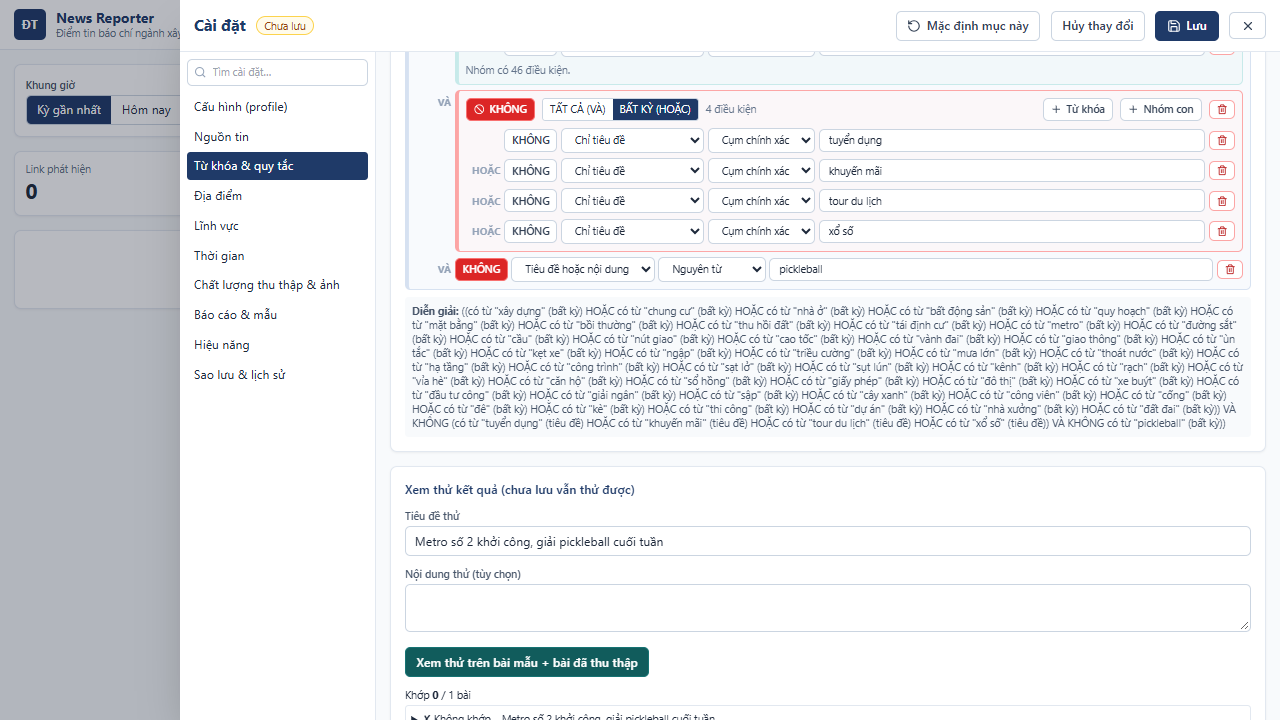
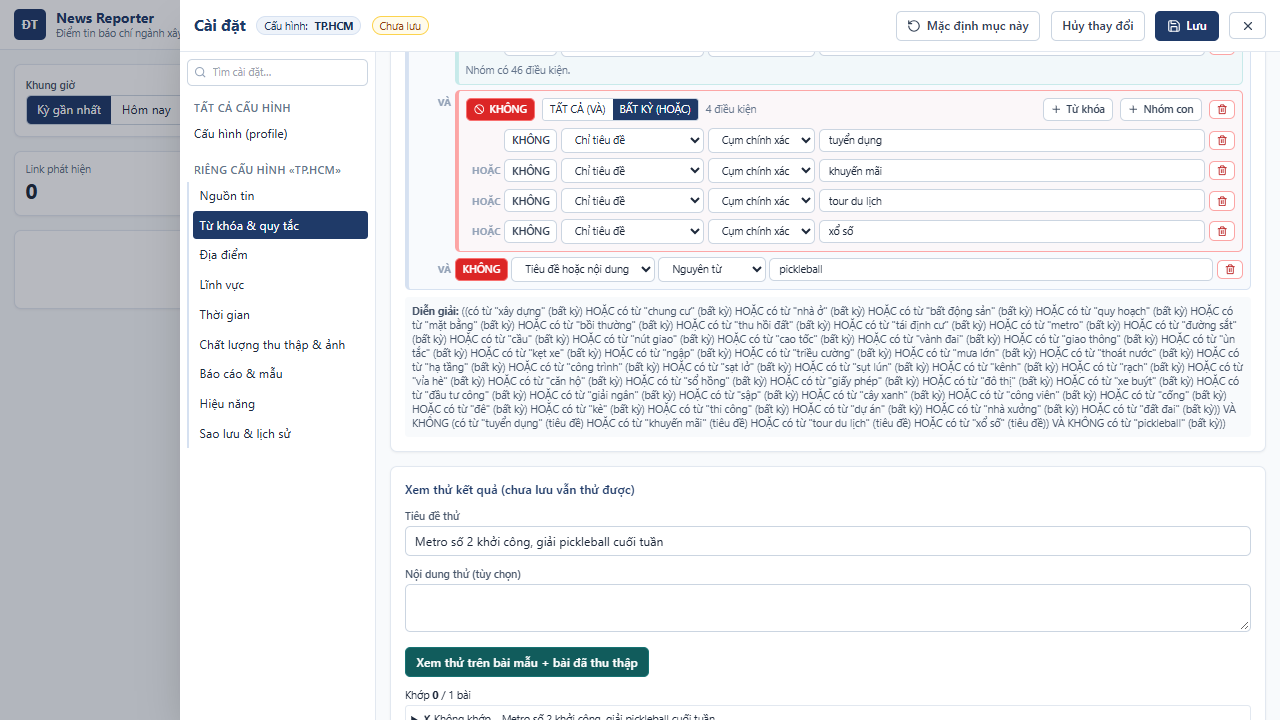
Settings show the active profile and group its sections; all report templates visible as choices (export + Settings)

Changed region(s): [[0.125, 0.1222, 0.3125, 0.6111], [0.1875, 0.0306, 0.3438, 0.0611]]

diff --git a/web/src/Settings.tsx b/web/src/Settings.tsx
@@ -33,7 +33,10 @@ export function SettingsDrawer({ open, onClose, onSaved, initialSection }: { ope
   const [filter, setFilter] = useState('');
   const [saving, setSaving] = useState(false);
 
+  /** name of the profile every section except "Cấu hình (profile)" edits */
+  const [profName, setProfName] = useState('');
   const load = async () => {
+    api.profiles().then((p) => setProfName(p.profiles.find((x) => x.id === p.activeId)?.name ?? p.activeId)).catch(() => setProfName(''));
     const [a, b] = await Promise.all([api.getSettings(), api.getSources()]);
     setSaved({ s: a, src: b });
     setS(structuredClone(a));
@@ -94,6 +97,11 @@ export function SettingsDrawer({ open, onClose, onSaved, initialSection }: { ope
       <div className="flex h-full w-full max-w-[1100px] flex-col bg-slate-50 shadow-2xl">
         <header className="flex items-center gap-3 border-b border-slate-200 bg-white px-4 py-3">
           <h2 className="text-lg font-bold text-navy-700">Cài đặt</h2>
+          {profName && (
+            <span className="chip border-navy-100 bg-navy-50 text-navy-800" data-testid="settings-profile" title="Nguồn tin, từ khóa & quy tắc, địa điểm, lĩnh vực, thời gian, chất lượng, báo cáo và hiệu năng thuộc riêng cấu hình này. Đổi cấu hình ở mục Cấu hình (profile).">
+              Cấu hình: <b className="ml-1">{profName}</b>
+            </span>
+          )}
           {(dirtyS || dirtySrc) && <span className="chip border-amber-300 bg-amber-50 text-amber-800">Chưa lưu</span>}
           <span className="flex-1" />
           <button className="btn-ghost" onClick={resetSection} disabled={nav === 'profiles' || nav === 'sources' || nav === 'backup'}>
@@ -111,7 +119,7 @@ export function SettingsDrawer({ open, onClose, onSaved, initialSection }: { ope
         </header>
         {api.mode === 'live' && api.shared && (
           <div className="border-b border-teal-200 bg-teal-50 px-4 py-2 text-xs text-teal-900" data-testid="shared-config-note">
-            <b>Cài đặt dùng chung:</b> bấm Lưu (cần đăng nhập người duyệt) là áp dụng cho <b>máy chủ thu thập</b> từ lượt kế tiếp (tự động hoặc bấm Thu thập) và cho mọi người dùng web. Mỗi lần lưu được ghi vào Lịch sử, có thể khôi phục. Riêng <b>mẫu PPTX</b> chỉ lưu trong trình duyệt này.
+            <b>Cài đặt dùng chung cho nhóm, riêng từng cấu hình{profName ? ` (đang sửa: ${profName})` : ''}:</b> bấm Lưu (cần đăng nhập người duyệt) là áp dụng cho <b>máy chủ thu thập</b> từ lượt kế tiếp (tự động hoặc bấm Thu thập) và cho mọi người dùng web. Mỗi lần lưu được ghi vào Lịch sử, có thể khôi phục. Riêng <b>mẫu PPTX</b> chỉ lưu trong trình duyệt này.
           </div>
         )}
         {validation && !validation.success && (
@@ -127,11 +135,24 @@ export function SettingsDrawer({ open, onClose, onSaved, initialSection }: { ope
               <Search className="absolute left-2 top-2 h-3.5 w-3.5 text-slate-400" />
               <input className="input pl-7 text-xs" placeholder="Tìm cài đặt…" value={filter} onChange={(e) => setFilter(e.target.value)} />
             </div>
-            {navItems.map(([k, l]) => (
-              <button key={k} onClick={() => setNav(k)} className={`mb-0.5 block w-full rounded px-2 py-1.5 text-left text-sm ${nav === k ? 'bg-navy-700 text-white' : 'hover:bg-slate-100'}`}>
-                {l}
-              </button>
-            ))}
+            {/* every section except the profile list belongs to the active profile – shown as one group under its name */}
+            {[
+              { title: 'Tất cả cấu hình', items: navItems.filter(([k]) => k === 'profiles') },
+              { title: `Riêng cấu hình «${profName || '…'}»`, items: navItems.filter(([k]) => k !== 'profiles') },
+            ].map((g) =>
+              g.items.length ? (
+                <div key={g.title} className="mb-2" data-testid={g.items[0]![0] === 'profiles' ? 'nav-all-profiles' : 'nav-this-profile'}>
+                  <div className="px-2 pb-1 pt-2 text-[11px] font-semibold uppercase tracking-wide text-slate-500">{g.title}</div>
+                  <div className={g.items[0]![0] === 'profiles' ? '' : 'border-l-2 border-navy-100 pl-1'}>
+                    {g.items.map(([k, l]) => (
+                      <button key={k} onClick={() => setNav(k)} className={`mb-0.5 block w-full rounded px-2 py-1.5 text-left text-sm ${nav === k ? 'bg-navy-700 text-white' : 'hover:bg-slate-100'}`}>
+                        {l}
+                      </button>
+                    ))}
+                  </div>
+                </div>
+              ) : null,
+            )}
           </nav>
           <main className="min-w-0 flex-1 overflow-auto p-4">
             {!s ? (
@@ -467,25 +488,27 @@ function ReportPanel({ s, up }: { s: Settings; up: Up }) {
   };
   return (
     <div>
-      <Section title="Mẫu báo cáo" help="Khi xuất vẫn chọn được mẫu khác cho từng lần.">
-        <Field label="Mẫu mặc định khi xuất">
-          <select className="input" aria-label="Mẫu mặc định khi xuất" value={s.report.templateId} onChange={(e) => up('report', { templateId: e.target.value })}>
-            {tpls.map((x) => <option key={x.id} value={x.id}>{x.name}</option>)}
-          </select>
-        </Field>
-        <p className="text-xs text-slate-600">{tpls.find((x) => x.id === s.report.templateId)?.description}</p>
-      </Section>
-      {s.report.templateFile ? (
-        <div className="mb-4 rounded border border-green-300 bg-green-50 p-3 text-xs text-green-900">
-          <b>Đã có mẫu tải lên:</b> báo cáo được dựng bằng cách nhân bản đúng các trang của mẫu (Bìa → Tồn tại → Tích cực → Trung lập → Kiến nghị), thay nội dung trong các khung sẵn có và giữ nguyên định dạng. Nếu tải mẫu khác cấu trúc, xuất báo cáo sẽ báo <b>BLOCKED</b> thay vì tạo tệp sai.
+      <Section title={`Mẫu báo cáo có sẵn (${tpls.length})`} help="Mẫu Sở Xây dựng TP.HCM (từ Skill) có sẵn trong ứng dụng – không cần tải gì. Tích mẫu mặc định; khi xuất vẫn tích được mẫu khác cho từng lần.">
+        <div className="space-y-1.5" role="radiogroup" aria-label="Mẫu mặc định khi xuất" data-testid="default-template-picker">
+          {tpls.map((x) => (
+            <label key={x.id} className={`flex cursor-pointer items-start gap-2 rounded border p-2 text-sm ${x.id === s.report.templateId ? 'border-teal-600 bg-teal-50' : 'border-slate-200 hover:bg-slate-50'}`}>
+              <input type="radio" name="default-template" className="mt-1" value={x.id} checked={x.id === s.report.templateId} onChange={() => up('report', { templateId: x.id })} aria-label={x.name} />
+              <span>
+                <span className="font-medium">{x.name}</span>
+                <span className="ml-1 text-xs text-slate-500">· {x.orientation === 'landscape' ? 'trang ngang 16:9' : 'A4 dọc'}{x.id === s.report.templateId ? ' · mặc định' : ''}</span>
+                <span className="block text-xs text-slate-600">{x.description}</span>
+              </span>
+            </label>
+          ))}
         </div>
-      ) : (
-        <div className="mb-4 rounded border border-amber-300 bg-amber-50 p-3 text-xs text-amber-900">
-          Muốn dùng <b>mẫu riêng</b> (cùng cấu trúc mẫu Sở: Bìa → Tồn tại → Tích cực → Trung lập → Kiến nghị)? Tải tệp .pptx ở bên dưới, rồi chọn "Mẫu đã tải lên" khi xuất.
+      </Section>
+      {s.report.templateFile && (
+        <div className="mb-4 rounded border border-green-300 bg-green-50 p-3 text-xs text-green-900">
+          <b>Có thêm mẫu riêng của bạn:</b> báo cáo được dựng bằng cách nhân bản đúng các trang của mẫu (Bìa → Tồn tại → Tích cực → Trung lập → Kiến nghị), thay nội dung trong các khung sẵn có và giữ nguyên định dạng. Nếu mẫu khác cấu trúc, xuất báo cáo sẽ báo <b>BLOCKED</b> thay vì tạo tệp sai.
         </div>
       )}
-      <Section title="Mẫu PowerPoint tải lên & thông tin cơ quan">
-        <p className="text-xs">Tệp mẫu đang chọn: <b>{s.report.templateFile || '(chưa có – dùng bố cục demo)'}</b></p>
+      <Section title="Mẫu riêng (không bắt buộc) & thông tin cơ quan">
+        <p className="text-xs">Chỉ cần khi muốn dùng một tệp .pptx khác (cùng cấu trúc mẫu Sở). Mẫu riêng đang có: <b>{s.report.templateFile || 'không có – vẫn xuất bình thường bằng các mẫu có sẵn ở trên'}</b></p>
         {api.mode !== 'local' && <p className="text-xs text-slate-600">Bản web: mẫu chỉ lưu trong <b>trình duyệt này</b> (không tải lên máy chủ hay GitHub); xuất báo cáo dựng ngay trong trình duyệt, ảnh báo gốc lấy qua máy chủ duyệt tin (cần đăng nhập). PDF: mở tệp .pptx bằng PowerPoint › Lưu thành PDF.</p>}
         <label className="btn-ghost w-fit cursor-pointer">
           <FileUp className="h-4 w-4" /> Tải mẫu .pptx

diff --git a/web/src/App.tsx b/web/src/App.tsx
@@ -1100,7 +1100,6 @@ function ExportPanel({ run, arts, reviews, settings, onPatch, onInspect, onMerge
   useEffect(() => {
     api.templates().then((r) => (setTpls(r.templates), setTplId((cur) => (r.templates.some((x) => x.id === cur) ? cur : r.defaultId)))).catch(() => setTpls([]));
   }, []);
-  const tpl = tpls.find((x) => x.id === tplId);
   const sel = Object.values(reviews).filter((r) => r.included && !r.groupId).sort((a, b) => a.order - b.order);
   const go = async (dryRun: boolean) => {
     setBusy(true);
@@ -1163,17 +1162,24 @@ function ExportPanel({ run, arts, reviews, settings, onPatch, onInspect, onMerge
       </div>
       <div className="card space-y-3 p-3">
         <h3 className="font-semibold text-navy-700">Xuất báo cáo</h3>
-        <label className="block">
-          <span className="label">Mẫu báo cáo</span>
-          <select className="input" aria-label="Mẫu báo cáo" value={tplId} onChange={(e) => setTplId(e.target.value)}>
-            {tpls.map((x) => (
-              <option key={x.id} value={x.id} disabled={x.available === false}>
-                {x.name} · {x.orientation === 'landscape' ? '16:9' : 'A4 dọc'}{x.available === false ? ' (thiếu tệp)' : ''}
-              </option>
-            ))}
-          </select>
-        </label>
-        {tpl && <p className="rounded bg-slate-50 p-2 text-xs text-slate-700" data-testid="template-info">{tpl.description}</p>}
+        {/* every template visible at once (tick one) – not hidden in a drop-down */}
+        <fieldset className="space-y-1.5" role="radiogroup" aria-label="Mẫu báo cáo" data-testid="template-picker">
+          <legend className="label mb-1">Mẫu báo cáo ({tpls.length})</legend>
+          {tpls.length === 0 && <p className="text-xs text-red-700">Không tải được danh sách mẫu – tải lại trang.</p>}
+          {tpls.map((x) => {
+            const on = x.id === tplId;
+            return (
+              <label key={x.id} className={`flex cursor-pointer items-start gap-2 rounded border p-2 text-sm ${on ? 'border-teal-600 bg-teal-50' : 'border-slate-200 hover:bg-slate-50'} ${x.available === false ? 'cursor-not-allowed opacity-50' : ''}`}>
+                <input type="radio" name="report-template" className="mt-1" value={x.id} checked={on} disabled={x.available === false} onChange={() => setTplId(x.id)} aria-label={x.name} />
+                <span className="min-w-0">
+                  <span className="font-medium">{x.name}</span>
+                  <span className="ml-1 text-xs text-slate-500">· {x.orientation === 'landscape' ? 'trang ngang 16:9' : 'A4 dọc'}{x.kind === 'original-pptx' ? ' · tệp PowerPoint gốc' : x.kind === 'upload' ? ' · tệp của bạn' : ''}{x.available === false ? ' · thiếu tệp' : ''}</span>
+                  {on && <span className="mt-0.5 block text-xs text-slate-600" data-testid="template-info">{x.description}</span>}
+                </span>
+              </label>
+            );
+          })}
+        </fieldset>
         <div className="flex gap-4">
           {(['pptx', 'pdf'] as const).map((f) => (
             <label key={f} className="flex items-center gap-1 text-sm"><input type="checkbox" checked={formats.includes(f)} onChange={(e) => setFormats(e.target.checked ? [...formats, f] : formats.filter((x) => x !== f))} /> .{f}</label>

diff --git a/tests/ui-live/review.spec.ts b/tests/ui-live/review.spec.ts
@@ -176,7 +176,8 @@ test('web = local: photos, full article text, shared settings used by the server
   const slidesXml = (await Promise.all(Object.keys(zip.files).filter((f) => /^ppt\/slides\/slide\d+\.xml$/.test(f)).map((f) => zip.file(f)!.async('string')))).join('');
   expect(slidesXml).toContain('Mưa lớn tối 8.11');
   // default template = the Department's template from the Skill (published with the site), with the real photo
-  await expect(page.getByLabel('Mẫu báo cáo')).toHaveValue('skill-so-xay-dung');
+  await expect(page.getByTestId('template-picker').locator('input[value="skill-so-xay-dung"]')).toBeChecked();
+  for (const id of ['skill-so-xay-dung', 'hanh-chinh', 'ban-tin', 'toi-gian', 'anh-lon']) await expect(page.getByTestId('template-picker').locator(`input[value="${id}"]`)).toBeVisible(); // Skill template + 4 original designs, all visible
   expect(file.suggestedFilename()).not.toContain('DEMO');
   expect(slidesXml).not.toContain('BẢN DEMO');
   const hasPhoto = async (z: JSZip) => {
@@ -188,7 +189,7 @@ test('web = local: photos, full article text, shared settings used by the server
   await page.screenshot({ path: 'docs/screenshots/web-export-template.png' });
 
   // another template, chosen at export: one of the app's original designs
-  await page.getByLabel('Mẫu báo cáo').selectOption('ban-tin');
+  await page.getByTestId('template-picker').locator('input[value="ban-tin"]').check();
   await expect(page.getByTestId('template-info')).toContainText('16:9');
   await page.evaluate(() => delete (window as unknown as { __dl?: unknown }).__dl);
   await page.getByRole('button', { name: 'Xuất báo cáo', exact: true }).click();
@@ -224,6 +225,16 @@ test('web profiles: create Đà Nẵng (stored by the worker), own settings + ho
   // the cron now collects both profiles in one run
   expect((await (await request.get('http://127.0.0.1:5181/__cron')).json()).profiles).toEqual(['hcm', 'da-nang']);
   await page.screenshot({ path: 'docs/screenshots/web-profile-da-nang.png' });
+  // Settings say which profile every section edits: sources, rules, location, categories… are grouped under it
+  await page.getByRole('button', { name: 'Cài đặt' }).click();
+  const dlg2 = page.getByRole('dialog', { name: 'Cài đặt' });
+  await expect(dlg2.getByTestId('settings-profile')).toContainText('Đà Nẵng');
+  const own = dlg2.getByTestId('nav-this-profile');
+  await expect(own).toContainText('Riêng cấu hình «Đà Nẵng»');
+  for (const l of ['Nguồn tin', 'Từ khóa & quy tắc', 'Địa điểm', 'Lĩnh vực']) await expect(own.getByRole('button', { name: l, exact: true })).toBeVisible();
+  await own.getByRole('button', { name: 'Lĩnh vực', exact: true }).click();
+  await page.screenshot({ path: 'docs/screenshots/web-settings-per-profile.png' });
+  await dlg2.getByRole('button', { name: 'Đóng cài đặt' }).click();
   await strip.getByLabel('Tự động thu thập mỗi giờ').click();
   await expect(strip.getByLabel('Tự động thu thập mỗi giờ')).not.toBeChecked();
   // back to TP.HCM: its published data is shown again

diff --git a/PROGRESS.md b/PROGRESS.md
@@ -7,7 +7,12 @@
 - Last session: 2026-11-16 (session 13) – hourly cloud runs continue the published period; label evaluation fixed
 - The user (GitHub `bccuong`) has authorised commits/pushes to this repo and GitHub Pages/Actions for this project.
 
-## ▶ RESUME HERE (session 13 – hourly web runs no longer drop stories; 2026-11-16)
+## ▶ RESUME HERE (session 13c – user feedback on Settings/export, false "degraded" fixed; 2026-11-16)
+- **Regression from 13a, fixed (7649d00):** carried-over articles were republished with `extractionContainer: null` → next run read "(none)" → Thanh Niên / Dân trí / Báo Xây dựng falsely "bóc tách suy giảm", ready stories pushed to "Cần kiểm tra" (09:12 run: ready 4). Now carried-over articles are no evidence for this run's health check; a stale ADAPTER_DEGRADED downgrade is undone and re-assessed. Pushed 09:48, re-collected 09:49 before the 10:00 freeze: all 6 sources ok, ready 35, 202 articles. Test: "carried-over articles are not evidence of adapter drift".
+- **User feedback (screenshot of web Settings):** (1) location/categories/keywords & rules should belong to one profile – they already were stored per profile, the UI did not show it → Settings header chip "Cấu hình: <name>", nav grouped "Tất cả cấu hình" / "Riêng cấu hình «<name>»". (2) "no Department PPTX at export" and (3) "4 templates not visible" – they were in a drop-down → export panel and Settings › Báo cáo & mẫu now show every template as a radio card (Skill template default + 4 designs + browser template if any); misleading "(chưa có – dùng bố cục demo)" text removed. Evidence: `docs/screenshots/web-settings-per-profile.png`, `docs/screenshots/web-export-template.png`.
+- Tests: typecheck, vitest 91/91, playwright 9/9, live E2E 5/5 (run from PowerShell).
+
+## (history) Session 13 – hourly web runs no longer drop stories; 2026-11-16)
 - Ran the recorded next step (evaluate team labels): `scripts/eval-shared-labels.ts` read the pre-profile path → fixed (`live/<profile>/<date>.json`, `--profile`, URL fallback for labels with an older article id, one vote per reviewer = latest).
 - **Defect found:** 10 of 17 team-labelled stories were missing from the published period. Cause: every hourly GitHub run starts with an empty store; with the 50/publisher limit (session 12) an article extracted at 21:07 could become `retry_pending FETCH_LIMIT` at 06:07, or be gone from the ledger once it left the RSS feed. Article ids could also change for the same URL → labels orphaned.
 - **Fix:** `seedFromPublished()` (scripts/cloud-collect.ts) loads the same period's published ledger + articles into the run store under the same run id when window and settings hash are unchanged → runCollection resumes: extracted stories stay (same ids), the limit is spent on links not fetched yet; manifest note "Tiếp nối lần đăng trước…". `extractionContainer` is now published; health ignores unknown containers.

diff --git a/ACCEPTANCE_REPORT.md b/ACCEPTANCE_REPORT.md
@@ -5,6 +5,8 @@
 |---|---|---|
 | LED-01 / no silent omission (hourly web runs) | **PASS (fixed regression)** | Defect found from team labels: each hourly cloud run started empty, so with the 50/publisher limit stories extracted in an earlier hour fell back to `retry_pending FETCH_LIMIT` or left the RSS feed and vanished from the published period (10 of 17 labelled stories gone). Fix: `seedFromPublished` in `scripts/cloud-collect.ts` resumes the run from the same period's publication (same window + settings hash). `tests/collector.test.ts` "hourly cloud runs continue…" (ids kept, story not re-downloaded, limit spent on new links, fresh run on changed settings/window). Real 2-pass dry run on live sources: pass 1 119 articles → pass 2 166, **0 lost**, retry_pending 548→379, ready 23→30, all adapters ok. |
 | DIS-06 / LED-02 duplicate by canonical | PASS (improved) | A link that is the canonical page of an already extracted story → `duplicate` DUPLICATE_CANONICAL, no fetch, its discovery evidence merged into the story; `tests/collector.test.ts` "a link that is already the canonical page…" (fails without the fix). vitest 90/90, playwright 9/9. |
+| UI – profile scope & template choice (user feedback) | PASS | Settings show the active profile and group its sections; export + Settings list all 5 templates as radio cards. Live E2E 5/5 (`tests/ui-live/review.spec.ts`: per-profile nav for "Đà Nẵng", 5 built-in templates visible, Skill template default, export with "ban-tin"). Screenshots in docs/screenshots. |
+| DIS-08 false degraded after carry-over | PASS (fixed) | 09:12 live run falsely degraded 3 sources; fix 7649d00, 09:49 live run: 6/6 ok, ready 35. |
 | DIS-08 | PASS (adjusted) | Container drift share now counts only articles with a recorded container (carried-over articles from older data have none) – `tests/health.test.ts` green. |
 
 
